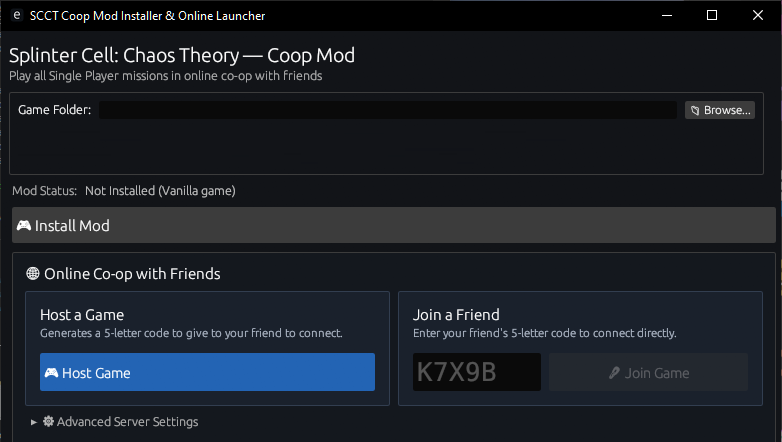
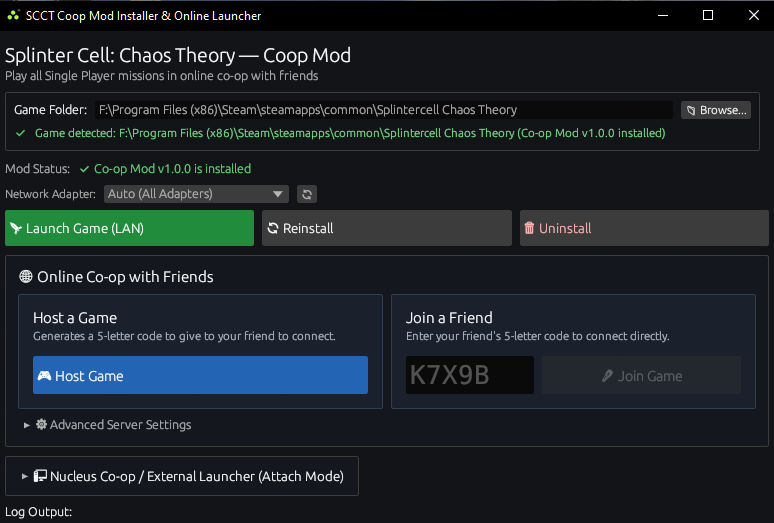
update README with nucleus co-op instructions

diff --git a/README.md b/README.md
@@ -24,6 +24,8 @@ All features:
 
 ## How to use
 
+### Online
+
 You must have a valid copy of Splinter Cell Chaos Theory for it to work, e.g. via Steam.
 
 1. (Both) Download the latest SCCT Coop Enhancer version from [the releases](https://github.com/sholtrop/scct_enhanced_coop/releases):
@@ -47,6 +49,31 @@ You must have a valid copy of Splinter Cell Chaos Theory for it to work, e.g. vi
 
 > [!NOTE]
 > To see single player levels, you have to scroll down in the level select
+
+### Nucleus Co-op
+
+You can use this mod together with [Nucleus Co-op](https://www.splitscreen.me/) to play split-screen on a single PC (including all single player levels in coop, persistent quick saves, and networking/gameplay fixes).
+
+1. Complete steps 1–3 from the [Online](#online) guide above so the mod is installed to your Splinter Cell: Chaos Theory folder first.
+
+   *(If you have already played Chaos Theory in Nucleus Co-op before, delete Nucleus's cached `content` folder for Chaos Theory so it picks up the newly patched game files instead of older vanilla copies.)*
+
+2. In `scct_coop_enhancer`, expand **"Nucleus Co-op / External Launcher (Attach Mode)"**.
+
+3. Leave **Nucleus Networking** on the default **"Built-in Loopback Pair (127.0.0.2 <-> 127.0.0.3) — Recommended"** (this pairs both local instances automatically without needing ForceBindIP or virtual network adapters).
+
+   *(If your Nucleus handler manages its own ForceBindIP / loopback adapters, you can switch to **"Respect Nucleus Network"**, or pick two local IPs manually with **"Custom Adapter IP Pair"**.)*
+
+4. Click **"Watch & Auto-Attach (Nucleus Mode)"**.
+
+   *(Alternatively, you can launch Nucleus Co-op first and click **"Attach / Re-apply to Running Game(s)"** while both instances are on the Main Menu.)*
+
+5. Launch 2-player Splinter Cell: Chaos Theory in Nucleus Co-op. `scct_coop_enhancer` will automatically attach to both instances as they start.
+
+6. In both game windows, go to **Coop -> Enhanced Coop**. One player creates a game and the other joins.
+
+> [!NOTE]
+> If you run Nucleus Co-op as Administrator, run `scct_coop_enhancer` as Administrator as well so it has permission to attach to the game processes. If either window was already inside the Coop menu before attaching, back out to the Main Menu and re-enter **Coop -> Enhanced Coop** so the sockets rebind.
 
 ## FAQ
 
